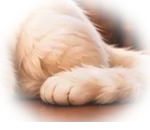
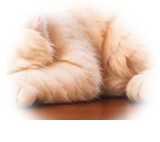
Skip unrelated jobs, print Messi's photo, and lift the guess buttons (#134)
* Skip unrelated jobs, give Messi a photo, and lift the guess buttons.

A confirmed occupation skips other job questions unless the remaining names split on them. Messi prints a free Commons photo, and a guess with no picture leaves the printer idle. Don't know shows a raised brow, the cat's tail flick is larger, and the desktop Yes/No buttons sit on the desk under the name.

* Seat the confused brow on the forehead.

The Don't-know plate had a dark arc on the hat brim. The raised brow is now the same grey-brown as the other brow, on the skin above the right eye, and the pulled mouth stays.

---------

diff --git a/games/riddlex/scene.js b/games/riddlex/scene.js
@@ -3,7 +3,7 @@
 // Face and cat plates cross-fade with opacity and share that same transform.
 // Nothing is ever a shifted rectangle of the painting.
 
-import { createExpressions } from "./expressions.js?v=akinator-24";
+import { createExpressions } from "./expressions.js?v=akinator-26";
 
 const BASE = {
   landscape: "./images/approved/game-desk.webp",
@@ -171,6 +171,8 @@ export function createScene(canvas) {
     parent.style.setProperty("--hands-y", hands.toFixed(4));
     parent.style.setProperty("--cat-top", catTop.toFixed(4));
     parent.style.setProperty("--desk-y", ((view.y + view.h * spot.dv) / ch).toFixed(4));
+    const [, noteBottom] = frac(0, portraitMode ? 0.62 : 0.44);
+    parent.style.setProperty("--note-bottom", Math.max(0.2, noteBottom).toFixed(4));
     parent.classList.toggle("portrait-scene", portraitMode);
   }
 
@@ -225,8 +227,8 @@ export function createScene(canvas) {
     portrait: { u: 0.69444, v: 0.36719, w: 0.29167, h: 0.14063 },
   };
   const CAT_TAIL = {
-    landscape: { u: 0.8014, v: 0.3613, w: 0.0897, h: 0.1382 },
-    portrait: { u: 0.8194, v: 0.3594, w: 0.1667, h: 0.1172 },
+    landscape: { u: 0.7536, v: 0.3486, w: 0.0957, h: 0.1509 },
+    portrait: { u: 0.7778, v: 0.3516, w: 0.2083, h: 0.1250 },
   };
 
   function stepCat(dt) {
@@ -242,7 +244,7 @@ export function createScene(canvas) {
       catLife.flick = 1;
       catLife.nextFlick = rand(4, 6);
     }
-    if (catLife.flick > 0) catLife.flick -= dt * 1.2;
+    if (catLife.flick > 0) catLife.flick -= dt * 0.8;
   }
 
   function prepareInk(name, font) {
@@ -512,7 +514,7 @@ export function createScene(canvas) {
       sg.drawImage(mask, 0, 0);
       reveal.page = { canvas: reveal.scratch, w: ink.width, h: ink.height, penX: 8 + reveal.inkWidth * p };
       if (p >= 1) {
-        reveal.phase = reveal.imageUrl && reveal.photo ? "print" : "turn";
+        reveal.phase = reveal.imageUrl && reveal.photo && reveal.photo.width > 0 ? "print" : "turn";
         reveal.t = 0;
         reveal.printed = false;
       }
@@ -667,7 +669,7 @@ export function createScene(canvas) {
 
   async function loadOverlaySet(orient) {
     const entries = await Promise.all(Object.entries(OVERLAYS[orient] || {}).map(async ([key, src]) => {
-      return [key, await loadImage(`${src}?v=akinator-24`)];
+      return [key, await loadImage(`${src}?v=akinator-26`)];
     }));
     const overlays = {};
     for (const [key, image] of entries) if (image) overlays[key] = image;
@@ -678,7 +680,7 @@ export function createScene(canvas) {
     const [base, overlays, printer] = await Promise.all([
       loadImage(BASE[orient]),
       loadOverlaySet(orient),
-      images.printer ? Promise.resolve(images.printer) : loadImage(`${PRINTER}?v=akinator-24`),
+      images.printer ? Promise.resolve(images.printer) : loadImage(`${PRINTER}?v=akinator-26`),
     ]);
     if (printer) images.printer = printer;
     return { base, overlays };

diff --git a/games/riddlex/engine.js b/games/riddlex/engine.js
@@ -490,6 +490,40 @@ function said(state, qid, values) {
   return state.answers.some((answer) => answer.qid === qid && values.includes(answer.value));
 }
 
+const PRIMARY_JOBS = ["footballer", "cricketer", "actor", "singer", "politician", "writer", "scientist", "musician", "director", "business", "youtube"];
+
+function confirmedJob(state) {
+  return PRIMARY_JOBS.find((job) => said(state, job, ["yes", "probably"])) || "";
+}
+
+function candidatesSplit(state, id, rows) {
+  const qi = state.pool.qIndex.get(id);
+  if (qi == null || !rows?.length) return false;
+  let yes = 0;
+  let no = 0;
+  let total = 0;
+  for (let k = 0; k < rows.length; k++) {
+    const weight = state.weights[rows[k]];
+    if (weight <= 0) continue;
+    total += weight;
+    const bit = attrAt(state.pool.attrs, state.pool.attrBytes, rows[k], qi);
+    if (bit === 2) yes += weight;
+    else if (bit === 1) no += weight;
+  }
+  return total > 0 && yes / total >= 0.15 && no / total >= 0.15;
+}
+
+function unrelatedJob(state, id) {
+  const job = confirmedJob(state);
+  if (!job || job === id) return false;
+  const primary = PRIMARY_JOBS.includes(id);
+  const politics = id === "politician" || state.pool.questions[state.pool.qIndex.get(id)]?.group === "politics";
+  if (!primary && !(politics && job !== "politician")) return false;
+  const rows = state.alive.length > 7000 ? sampleAlive(state, 6000) : state.alive;
+  const probe = politics ? "politician" : id;
+  return !candidatesSplit(state, probe, rows);
+}
+
 function skippedAsDuplicate(state, id) {
   const yes = (qid) => said(state, qid, ["yes", "probably"]);
   const answered = (qid) => state.answers.some((answer) => answer.qid === qid && answer.value !== "unknown");
@@ -499,6 +533,7 @@ function skippedAsDuplicate(state, id) {
   if (id === "singer" && said(state, "musician", ["no", "probably_not"])) return true;
   if (id === "athlete" && (yes("cricketer") || yes("footballer"))) return true;
   if ((id === "played_barcelona" || id === "ballon_dor") && !yes("footballer")) return true;
+  if (unrelatedJob(state, id)) return true;
   if ((id === "wild" && yes("pet")) || (id === "pet" && yes("wild"))) return true;
   if (COUNTRIES.includes(id) && COUNTRIES.some((country) => country !== id && yes(country))) return true;
   if (BIRTHS.includes(id) && BIRTHS.some((birth) => birth !== id && yes(birth))) return true;

diff --git a/games/riddlex/style.css b/games/riddlex/style.css
@@ -227,16 +227,18 @@ html[lang="bn"] button, html[lang="bn"] input, html[lang="bn"] .speech { font-we
 }
 @media (min-aspect-ratio: 4/5) {
   #hud:has(#guess:not([hidden])) {
-    top: auto; bottom: 14px; left: 16px; right: 16px; z-index: 6;
+    top: calc(var(--note-bottom, 0.52) * 100% + 28px);
+    bottom: auto; left: 16px; right: 16px; z-index: 6;
+    display: flex; flex-direction: column; align-items: center; gap: 6px;
+    background: transparent;
   }
   #hud:has(#guess:not([hidden])) #guess {
     display: grid; grid-template-columns: 1fr 1fr; gap: 12px;
     width: min(560px, 100%); margin: 0 auto;
   }
-  #hud:has(#guess:not([hidden])) #guess button { min-height: 56px; font-size: 18px; }
+  #hud:has(#guess:not([hidden])) #guess button { min-height: 52px; font-size: 18px; }
   #hud:has(#guess:not([hidden])) #credit {
-    position: absolute; left: auto; right: 18px; bottom: 22px; margin: 0;
-    max-width: 42%; text-align: right; z-index: 7;
+    position: static; margin: 0; max-width: 70%; text-align: center;
   }
 }
 @media (max-width: 520px) {

diff --git a/games/riddlex/index.html b/games/riddlex/index.html
@@ -19,7 +19,7 @@
   <meta name="twitter:description" content="Think of a real person, character, animal or object. Riddlex asks one question at a time and tries to guess.">
   <meta name="twitter:image" content="https://walid-ai.com/walid-ai-preview.jpg">
   <link rel="stylesheet" href="https://fonts.googleapis.com/css2?family=Caveat:wght@500&display=swap">
-  <link rel="stylesheet" href="./style.css?v=akinator-24">
+  <link rel="stylesheet" href="./style.css?v=akinator-26">
   <link rel="icon" href="/favicon.ico?v=20261109-pink" sizes="any">
   <link rel="icon" type="image/png" sizes="32x32" href="/favicon-32.png?v=20261109-pink">
   <link rel="apple-touch-icon" href="/apple-touch-icon.png?v=20261109-pink">
@@ -115,7 +115,7 @@
     </div>
     </div>
   </div>
-  <script type="module" src="./app.js?v=akinator-24"></script>
+  <script type="module" src="./app.js?v=akinator-26"></script>
   <script src="/usage.js?v=20261109-2"></script>
 </body>
 </html>

diff --git a/games/riddlex/app.js b/games/riddlex/app.js
@@ -3,7 +3,7 @@ import { answer as applyAnswer, canPrint, createState, decide, displayName, enti
 import { UI, guessFont } from "./i18n.js";
 import { categoryShards, imageSrc, loadManifest, loadShards, mergePools, planShardLoads, poolFromEntries, traffic } from "./kb.js";
 import { answersImplyAdult, loadLearned, nameMatchesAdult, submitLearning } from "./learn.js";
-import { createScene } from "./scene.js?v=akinator-24";
+import { createScene } from "./scene.js?v=akinator-26";
 
 const $ = (id) => document.getElementById(id);
 const menu = $("menu");
